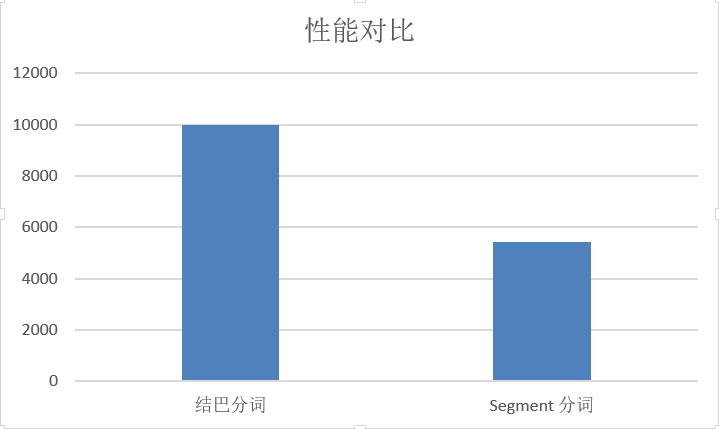
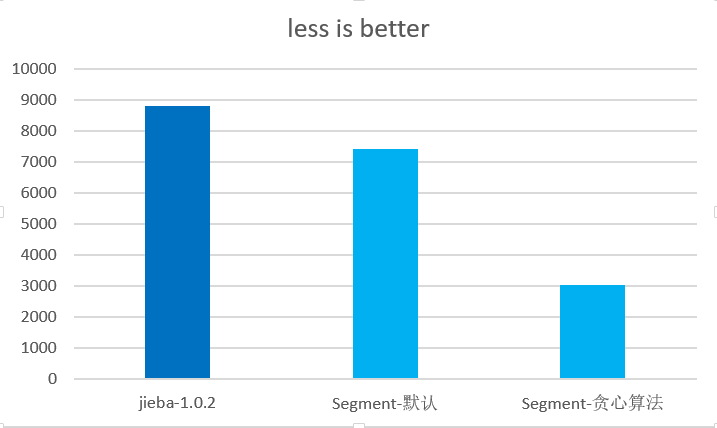
[update] updates

diff --git a/src/test/java/com/github/houbb/segment/test/benchmark/BenchmarkTest.java b/src/test/java/com/github/houbb/segment/test/benchmark/BenchmarkTest.java
@@ -2,6 +2,7 @@ package com.github.houbb.segment.test.benchmark;
 
 import com.github.houbb.heaven.util.io.StreamUtil;
 import com.github.houbb.segment.bs.SegmentBs;
+import com.github.houbb.segment.support.segment.mode.impl.SegmentModes;
 import com.github.houbb.segment.support.segment.result.impl.SegmentResultHandlers;
 import com.huaban.analysis.jieba.JiebaSegmenter;
 import org.junit.Ignore;
@@ -29,7 +30,7 @@ public class BenchmarkTest {
     private static final int TIMES = 10000;
 
     /**
-     * 耗时：28080
+     * 耗时：8809
      */
     @Test
     public void jiebaAnalysisTest() {
@@ -50,7 +51,7 @@ public class BenchmarkTest {
     }
 
     /**
-     * Segment cost: 13988
+     * Segment cost: 7435
      */
     @Test
     public void segmentTest() {
@@ -58,18 +59,39 @@ public class BenchmarkTest {
         SegmentBs segmenter = SegmentBs.newInstance();
 
         // 预热
-        List<String> wordList = segmenter.segment(text, SegmentResultHandlers.word());
+        segmenter.segment(text);
 
         // 开始验证
         long startTime = System.currentTimeMillis();
         for(int i = 0; i < TIMES; i++) {
-            segmenter.segment(text, SegmentResultHandlers.word());
+            segmenter.segment(text);
         }
         long endTime = System.currentTimeMillis();
 
         System.out.println("Segment cost: " + (endTime-startTime));
     }
 
+    /**
+     * Segment cost: 3050
+     */
+    @Test
+    public void segmentGreedyLengthTest() {
+        String text = getText();
+        SegmentBs segmenter = SegmentBs.newInstance()
+                .segmentMode(SegmentModes.greedyLength());
+
+        // 预热
+        segmenter.segment(text);
+
+        // 开始验证
+        long startTime = System.currentTimeMillis();
+        for(int i = 0; i < TIMES; i++) {
+            segmenter.segment(text);
+        }
+        long endTime = System.currentTimeMillis();
+
+        System.out.println("Segment cost: " + (endTime-startTime));
+    }
 
     /**
      * 获取文本内容
